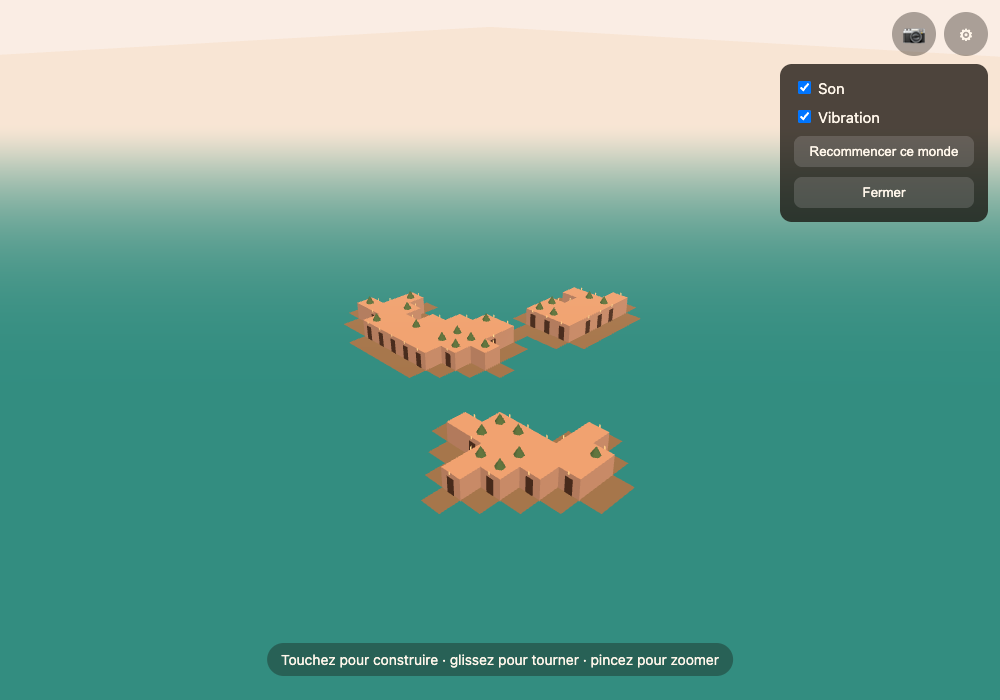
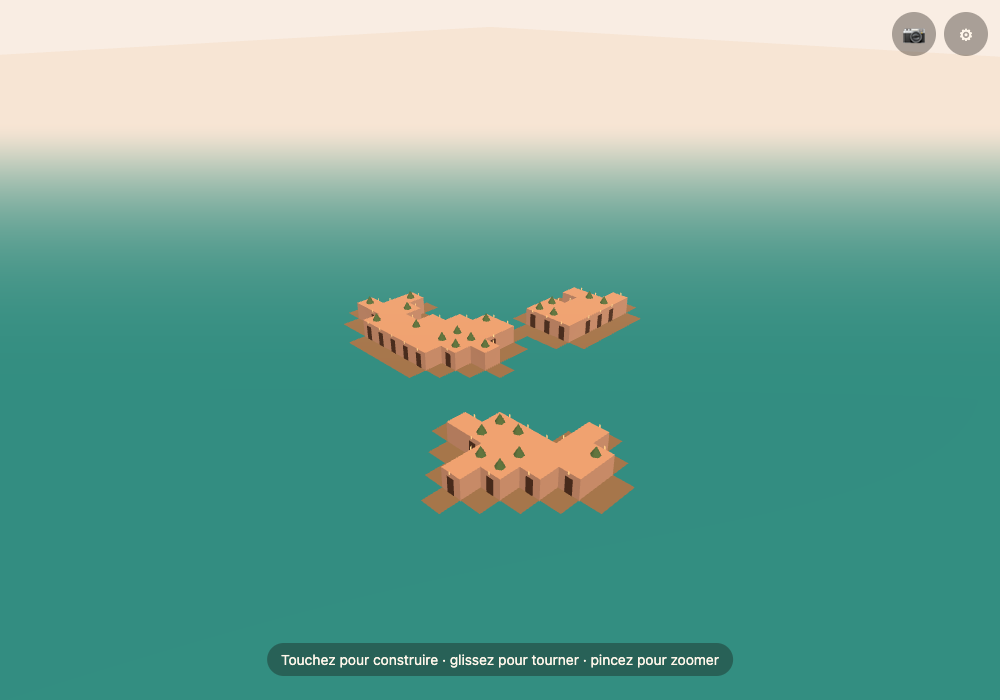
P6 — Animation de pose, audio procédural, haptique
Chaque cellule (re)construite "sort de l'eau" (position.y animée ~220ms, jamais l'échelle :
la géométrie encode des coordonnées absolues). Sons synthétisés Web Audio (construction,
démolition, ambiance de fond), vibration légère, réglages son/vibration du panneau P5
effectivement branchés.

Bug trouvé et corrigé par capture d'écran : #hud-panel { display:flex } (spécificité ID)
écrasait le masquage natif de [hidden] (spécificité attribut, plus faible) — le panneau
réglages restait affiché en permanence depuis P5, jamais remarqué car la vérification
précédente n'avait regardé que l'état "ouvert après clic", pas l'état "fermé par défaut".

Changed region(s): [[0.775, 0.09, 0.992, 0.33]]

diff --git a/src/procedural/world.js b/src/procedural/world.js
@@ -4,6 +4,10 @@
  * l'instant (structure, fenêtres, porte, quai) ; fusion en un seul BufferGeometry par îlot prévue
  * en P9 si le nombre de cellules le justifie (voir analysis/GAME_DESIGN.md §5). */
 (function (global) {
+  const POP_MS = 220; // durée de l'animation d'apparition (P6 : la construction "sort de l'eau")
+  const POP_DROP = 1.4; // de combien une cellule démarre enfoncée avant de remonter à sa place
+  function easeOutCubic(x) { return 1 - Math.pow(1 - x, 3); }
+
   class World {
     constructor(THREE, scene, materials) {
       this.THREE = THREE;
@@ -12,6 +16,7 @@
       this.grid = new DW.Grid();
       this.meshes = new Map(); // key -> { structure, windows, door, dock, lantern, vegetation } (plusieurs peuvent être null)
       this._bushGeometry = null; // géométrie partagée (primitive THREE simple) : un seul buffer pour tous les buissons
+      this._anims = new Map(); // key -> { start, parts: [{mesh, finalY}] } — animations de pose en cours
     }
 
     _key(cx, cz) { return cx + ',' + cz; }
@@ -24,10 +29,29 @@
       }
     }
 
+    // Enregistre une animation "sort de l'eau" pour les meshes non nuls d'une cellule tout juste
+    // (re)construite : on ne touche qu'à position.y (jamais à l'échelle, puisque la géométrie
+    // encode déjà des coordonnées absolues — un scale désaxerait tout, voir buildCellGeometry.js).
+    _popIn(key, meshes) {
+      const parts = meshes.filter(Boolean).map((mesh) => ({ mesh, finalY: mesh.position.y }));
+      for (const p of parts) p.mesh.position.y = p.finalY - POP_DROP;
+      this._anims.set(key, { start: performance.now(), parts });
+    }
+
+    update(now) {
+      for (const [key, anim] of this._anims) {
+        const t = Math.min(1, (now - anim.start) / POP_MS);
+        const e = easeOutCubic(t);
+        for (const p of anim.parts) p.mesh.position.y = p.finalY - POP_DROP * (1 - e);
+        if (t >= 1) this._anims.delete(key);
+      }
+    }
+
     _rebuildCell(cx, cz) {
       const key = this._key(cx, cz);
       const old = this.meshes.get(key);
       if (old) { this._disposeEntry(old); this.meshes.delete(key); }
+      this._anims.delete(key);
       const desc = DW.Mesher.cellDescriptor(this.grid, cx, cz);
       if (!desc) return;
       const T = this.THREE, G = DW.Geometry;
@@ -35,7 +59,9 @@
       if (desc.kind === 'bridge') {
         const structure = new T.Mesh(G.buildBridgeGeometry(T, desc), this.materials.wood);
         this.scene.add(structure);
-        this.meshes.set(key, { structure, windows: null, door: null, dock: null, lantern: null, vegetation: null });
+        const entry = { structure, windows: null, door: null, dock: null, lantern: null, vegetation: null };
+        this.meshes.set(key, entry);
+        this._popIn(key, [structure]);
         return;
       }
 
@@ -62,7 +88,9 @@
         this.scene.add(vegetation);
       }
 
-      this.meshes.set(key, { structure, windows, door, dock, lantern, vegetation });
+      const entry = { structure, windows, door, dock, lantern, vegetation };
+      this.meshes.set(key, entry);
+      this._popIn(key, [structure, windows, door, dock, lantern, vegetation]);
     }
 
     _touch(cx, cz) {
@@ -77,6 +105,7 @@
     clear() {
       for (const entry of this.meshes.values()) this._disposeEntry(entry);
       this.meshes.clear();
+      this._anims.clear();
       this.grid = new DW.Grid();
     }
 

diff --git a/src/audio/audio.js b/src/audio/audio.js
@@ -1,0 +1,63 @@
+/* Sons synthétisés (Web Audio), aucun fichier audio — même esprit que les autres jeux du Bureau
+ * (cold-impact). Le contexte audio ne démarre qu'après un premier geste utilisateur (politique des
+ * navigateurs) : `init()` doit être appelé depuis un gestionnaire d'événement réel (tap, clic). */
+(function (global) {
+  let ctx = null, master = null, ambienceNode = null;
+  let enabled = true;
+
+  function init() {
+    if (ctx) return;
+    const AC = window.AudioContext || window.webkitAudioContext;
+    if (!AC) return; // navigateur sans Web Audio : le jeu reste jouable, juste silencieux
+    try {
+      ctx = new AC();
+      master = ctx.createGain();
+      master.gain.value = enabled ? 1 : 0;
+      master.connect(ctx.destination);
+    } catch (e) { ctx = null; master = null; } // contexte refusé (politique du navigateur) : silencieux, pas bloquant
+  }
+
+  function setEnabled(v) {
+    enabled = v;
+    if (master) master.gain.setTargetAtTime(enabled ? 1 : 0, ctx.currentTime, 0.05);
+  }
+
+  // Bip court et montant : construction. `freqStart`→`freqEnd` en quelques dizaines de ms.
+  function blip(freqStart, freqEnd, duration, type) {
+    if (!ctx) return;
+    const t0 = ctx.currentTime;
+    const osc = ctx.createOscillator();
+    const gain = ctx.createGain();
+    osc.type = type || 'sine';
+    osc.frequency.setValueAtTime(freqStart, t0);
+    osc.frequency.exponentialRampToValueAtTime(Math.max(1, freqEnd), t0 + duration);
+    gain.gain.setValueAtTime(0.18, t0);
+    gain.gain.exponentialRampToValueAtTime(0.001, t0 + duration);
+    osc.connect(gain); gain.connect(master);
+    osc.start(t0); osc.stop(t0 + duration + 0.02);
+  }
+
+  function playBuild() { blip(420, 720, 0.12, 'triangle'); }
+  function playDemolish() { blip(260, 110, 0.16, 'sine'); }
+
+  // Ambiance : bruit filtré en boucle, très bas volume — vent/eau lointains, jamais de mélodie.
+  function startAmbience() {
+    if (!ctx || ambienceNode) return;
+    const bufferSize = 2 * ctx.sampleRate;
+    const buffer = ctx.createBuffer(1, bufferSize, ctx.sampleRate);
+    const data = buffer.getChannelData(0);
+    for (let i = 0; i < bufferSize; i++) data[i] = Math.random() * 2 - 1;
+    const noise = ctx.createBufferSource();
+    noise.buffer = buffer; noise.loop = true;
+    const filter = ctx.createBiquadFilter();
+    filter.type = 'bandpass'; filter.frequency.value = 500; filter.Q.value = 0.6;
+    const gain = ctx.createGain();
+    gain.gain.value = 0.025;
+    noise.connect(filter); filter.connect(gain); gain.connect(master);
+    noise.start();
+    ambienceNode = noise;
+  }
+
+  const ns = (global.DW = global.DW || {});
+  ns.Audio = { init, setEnabled, playBuild, playDemolish, startAmbience };
+})(window);

diff --git a/game.js b/game.js
@@ -57,10 +57,22 @@
       return { cx: Math.floor(hit.x), cz: Math.floor(hit.z) };
     }
 
+    // Son + haptique (P6) : le contexte audio ne peut démarrer que depuis un vrai geste utilisateur
+    // (politique des navigateurs) — jamais pendant la génération programmatique de l'archipel.
+    function wake() { DW.Audio.init(); DW.Audio.startAmbience(); }
+
     let hud = null;
     DW.Gestures.attach(canvas, {
-      onTap(x, y) { hud.dismissHint(); const c = screenToCell(x, y); if (c) world.build(c.cx, c.cz); },
-      onLongPress(x, y) { hud.dismissHint(); const c = screenToCell(x, y); if (c) world.demolish(c.cx, c.cz); },
+      onTap(x, y) {
+        wake(); hud.dismissHint();
+        const c = screenToCell(x, y);
+        if (c) { world.build(c.cx, c.cz); DW.Audio.playBuild(); DW.Haptics.tick('build'); }
+      },
+      onLongPress(x, y) {
+        wake(); hud.dismissHint();
+        const c = screenToCell(x, y);
+        if (c) { world.demolish(c.cx, c.cz); DW.Audio.playDemolish(); DW.Haptics.tick('demolish'); }
+      },
       onDragOrbit(dx, dy) { hud.dismissHint(); orbit.orbit(-dx * 0.006, -dy * 0.006); },
       onPan(dx, dy) { orbit.pan(-dx, dy); },
       onZoom(factor) { hud.dismissHint(); orbit.zoom(factor); },
@@ -86,6 +98,10 @@
         document.getElementById('hud-photo').textContent = photoMode ? '✕' : '📷';
       },
     });
+    DW.Audio.setEnabled(hud.settings.sound);
+    DW.Haptics.setEnabled(hud.settings.vibration);
+    document.getElementById('hud-sound').addEventListener('change', (e) => DW.Audio.setEnabled(e.target.checked));
+    document.getElementById('hud-vibration').addEventListener('change', (e) => DW.Haptics.setEnabled(e.target.checked));
 
     // Cycle jour/nuit (P4) : un tour complet dure CYCLE_SECONDS, démarre au crépuscule (identité
     // visuelle par défaut du jeu, voir src/rendering/dayNight.js). `paused` et `dayNight.t` sont
@@ -115,6 +131,7 @@
       const dt = Math.min(0.1, (now - lastFrame) / 1000);
       lastFrame = now;
       if (!dayNight.paused) { dayNight.t += dt / CYCLE_SECONDS; applyDayNight(); }
+      world.update(now);
       render();
       requestAnimationFrame(tick);
     }

diff --git a/style.css b/style.css
@@ -28,4 +28,8 @@ html, body { margin: 0; padding: 0; width: 100%; height: 100%; overflow: hidden;
   background: rgba(20, 15, 10, 0.75); color: #fff6ea; border-radius: 12px; padding: 14px;
   display: flex; flex-direction: column; gap: 10px; font-size: 15px; min-width: 180px;
 }
+/* Spécificité : [hidden] (10) < #hud-panel (100) < #hud-panel[hidden] (110) — sans cette dernière
+   règle, le `display: flex` ci-dessus écrase le masquage natif de l'attribut `hidden` (bug trouvé
+   par capture d'écran : le panneau restait affiché en permanence, voir ROADMAP.md). */
+#hud-panel[hidden] { display: none; }
 #hud-panel button { padding: 8px; border-radius: 8px; border: none; background: rgba(255,255,255,0.15); color: inherit; }

diff --git a/tools/smoke.js b/tools/smoke.js
@@ -27,8 +27,9 @@ function assert(cond, msg) { if (!cond) throw new Error('FAIL: ' + msg); console
 
   await page.goto(URL, { waitUntil: 'load' });
   await page.waitForFunction('window.DW_TEST && window.DW_TEST.world', { timeout: 5000 });
-
-  await page.evaluate(() => window.DW_TEST.render());
+  // Laisse la vraie boucle de jeu (requestAnimationFrame) tourner le temps que l'animation de pose
+  // (P6, ~220ms) se termine, plutôt que de figer un rendu en plein milieu de l'animation.
+  await new Promise((r) => setTimeout(r, 400));
   await page.screenshot({ path: path.join(__dirname, '..', 'analysis', 'smoke_screenshot_initial.png') });
 
   const initial = await page.evaluate(() => {

diff --git a/src/input/haptics.js b/src/input/haptics.js
@@ -1,0 +1,12 @@
+/* Vibration légère (Android/Chrome : API Vibration ; iPhone/Safari : ignorée silencieusement,
+ * aucune API équivalente — voir le même constat déjà fait pour Cold Impact dans ce Bureau). */
+(function (global) {
+  let enabled = true;
+  function setEnabled(v) { enabled = v; }
+  function tick(kind) {
+    if (!enabled || !navigator.vibrate) return;
+    navigator.vibrate(kind === 'demolish' ? 18 : 12);
+  }
+  const ns = (global.DW = global.DW || {});
+  ns.Haptics = { setEnabled, tick };
+})(window);

diff --git a/index.html b/index.html
@@ -31,6 +31,8 @@
 <script src="src/decoration/placement.js"></script>
 <script src="src/camera/orbitCamera.js"></script>
 <script src="src/input/gestures.js"></script>
+<script src="src/input/haptics.js"></script>
+<script src="src/audio/audio.js"></script>
 <script src="src/procedural/islands.js"></script>
 <script src="src/procedural/world.js"></script>
 <script src="src/ui/hud.js"></script>

diff --git a/ROADMAP.md b/ROADMAP.md
@@ -46,10 +46,14 @@
 - [x] "Recommencer" régénère le même archipel de départ (même graine) plutôt que de le vider — vérifié (`world.clear()` + régénération).
 - Mode photo : bouton câblé (masque l'indice et les réglages) mais comportement complet réservé à P8.
 
-## P6 — Animations, audio, haptique
+## P6 — Animations, audio, haptique (fait)
 
-- Petite animation + son à la pose/démolition, vibration légère.
-- Ambiance sonore évolutive (vent, eau, cloches lointaines).
+- [x] Animation de pose : chaque cellule (re)construite "sort de l'eau" (position.y animée, jamais l'échelle — voir note ci-dessous), ~220ms, `World.update(now)` appelé depuis la boucle de jeu.
+- [x] Sons synthétisés (Web Audio, aucun fichier) : un bip montant à la construction, un bip descendant à la démolition (`src/audio/audio.js`).
+- [x] Ambiance : bruit filtré en boucle très bas volume, démarre au premier vrai geste (politique des navigateurs).
+- [x] Vibration légère (Android/Chrome ; iPhone/Safari l'ignore silencieusement, cohérent avec la limite déjà notée pour Cold Impact).
+- [x] Réglages son/vibration du panneau P5 effectivement branchés (`DW.Audio.setEnabled`, `DW.Haptics.setEnabled`).
+- Démolition : pas d'animation de sortie (le mesh est retiré immédiatement) — simplification assumée, voir note plus bas.
 
 ## P7 — Sauvegarde
 
@@ -87,3 +91,14 @@
   entre deux rives = exactement la même signature que le milieu d'une rangée de maisons). Le local
   seul ne suffit pas à trancher : il faut un indice posé une fois par ailleurs (ici, `grid.isWater`,
   rempli par la génération de terrain) plutôt que d'essayer de deviner depuis les seuls voisins.
+- Animer une construction dont la géométrie encode des coordonnées **absolues** (notre cas, voir
+  `buildCellGeometry.js`) ne peut pas passer par `mesh.scale` : ça grossirait depuis l'origine du
+  monde (0,0,0), pas depuis la cellule. Seule une translation (`position.y`) reste valide sans
+  réécrire la géométrie en coordonnées locales.
+- Spécificité CSS : `#hud-panel { display: flex }` (sélecteur ID, spécificité 100) écrase le
+  masquage natif de l'attribut `[hidden]` (spécificité ~10) — le panneau restait affiché en
+  permanence malgré `hidden` posé en HTML. Toujours ajouter une règle `#id[hidden] { display: none }`
+  explicite dès qu'un élément togglé par `hidden` reçoit aussi un `display` en CSS. Trouvé par
+  capture d'écran (le panneau apparaissait dans une capture qui ne devait pas l'ouvrir) — un rappel
+  que "ça a l'air bon sur la capture qu'on attendait" ne suffit pas, il faut vérifier l'état qu'on
+  n'attendait PAS de voir.
